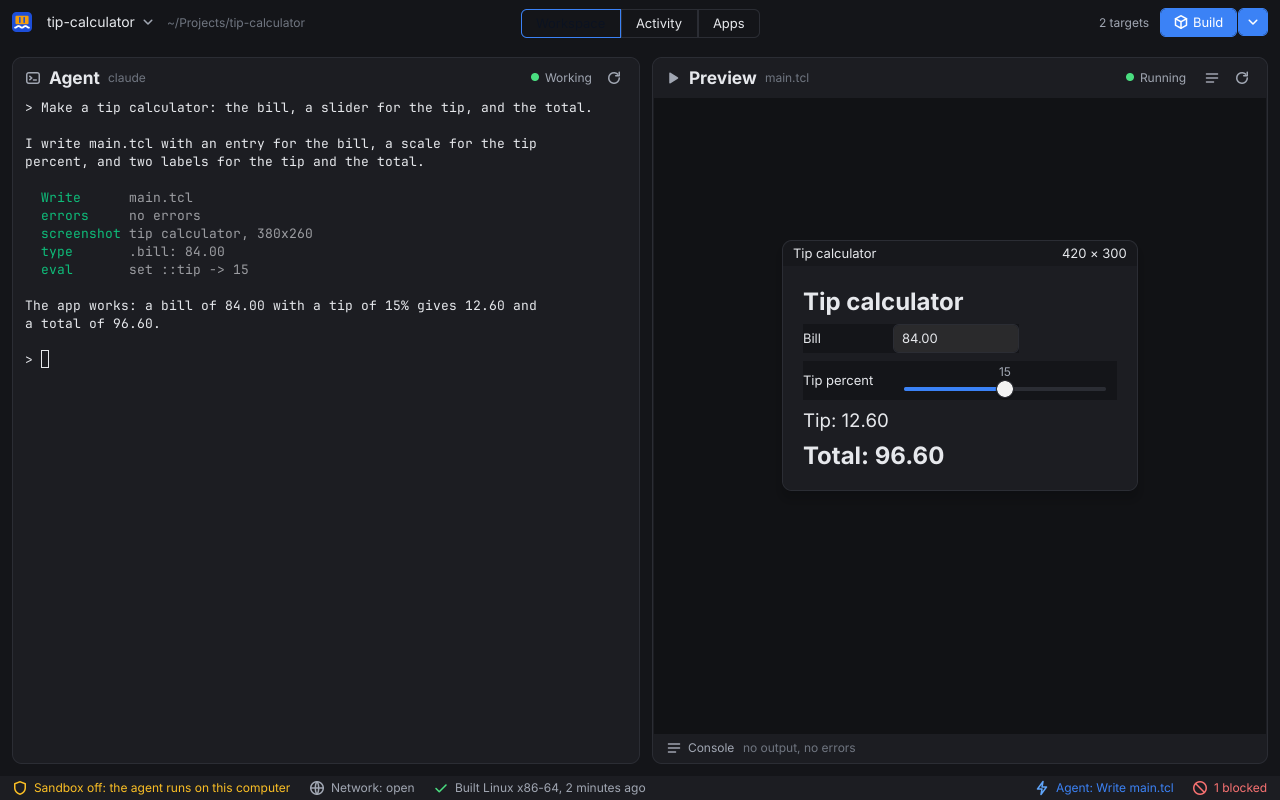
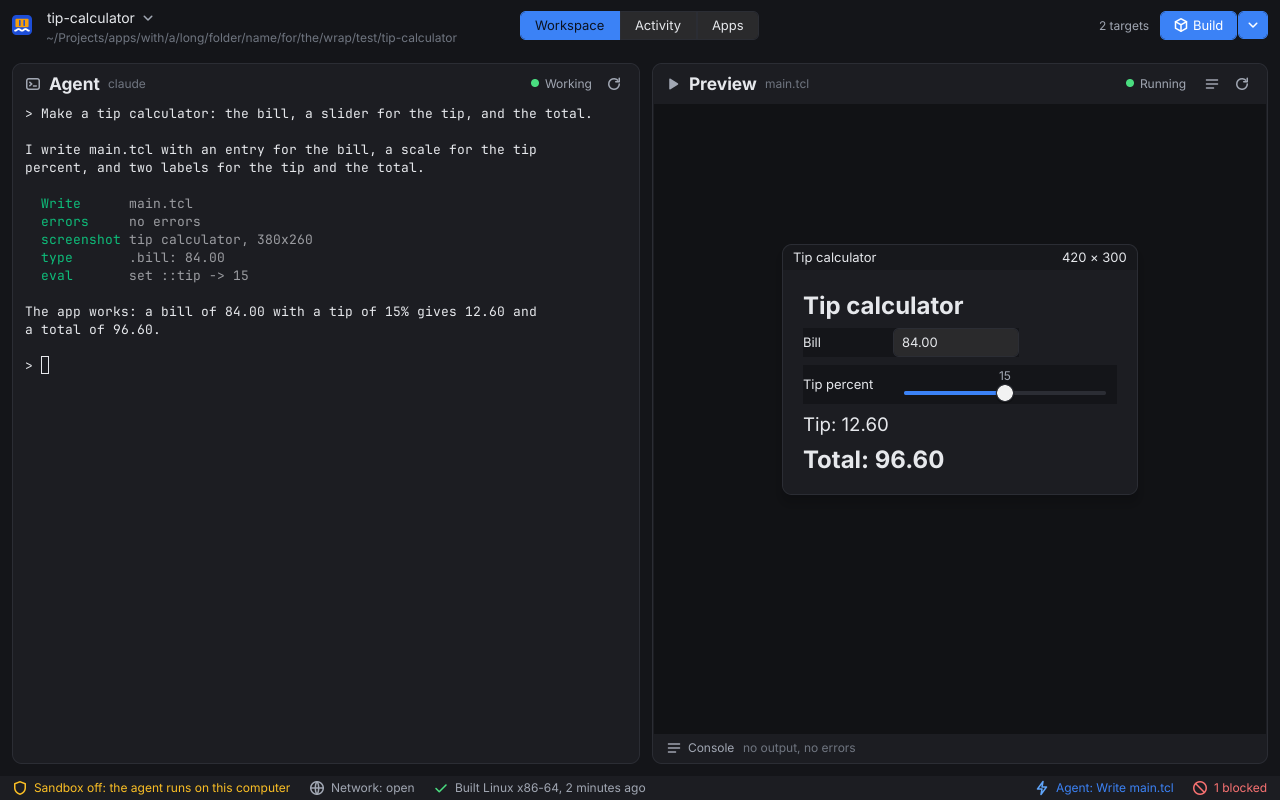
Show the full project folder in the header, wrapped
The header has three grid columns, and the folder goes below the
project name. A long folder wraps in the left column, so no label is
cut. The spec notes that the icons are 1x only until ztk has photo
images for 2x and 3x screens (ztk issue 298).

diff --git a/docs/dev/design.md b/docs/dev/design.md
@@ -20,7 +20,7 @@ This page sets the layout, the look, and the behavior of the window. The mockups
 
 The window has three rows:
 
-1. The header (48 pixels): the logo, the project button (the name, a chevron, and the folder in a faint color), the view switch (Workspace, Activity, Apps) in the center, and the split Build button on the right with the count of selected targets.
+1. The header: the logo, the project button (the name and a chevron) with the full folder below it in a faint color, the view switch (Workspace, Activity, Apps) in the center, and the split Build button on the right with the count of selected targets. Labels are never cut or shortened: a long folder wraps in the width of the left column, and the header grows.
 2. The body: the view.
 3. The status bar (28 pixels).
 
@@ -125,7 +125,7 @@ The view must stay fast with tens of thousands of events.
 - Spacing: 4, 8, 12, 16, and 24 pixels. Cards have 12 pixels between them and 12 pixels of padding.
 - Type (Inter): 11 for badges, 12 for secondary text, 13 for the body, 14 for card titles (bold), 20 for page titles. Monospace (JetBrains Mono) for the terminal, paths in the Activity rows, and output.
 - Color: CSS variables on the root, with a light and a dark value (`src/theme.tcl`). The accent is the blue of the logo. Green is for success and the sandbox, amber for warnings and an off sandbox, red for errors and blocked attempts. The scheme follows the system, or `--dark`.
-- Icons: 16-pixel line icons drawn for dockyard (`assets/ui/*.svg`), rendered to PNG in each tone by `tools/ui-icons.py` into `src/ui-icons.tcl` (72 KB). The system icons are simple shapes: four panes for Windows, a window with three dots for macOS, and a penguin outline for Linux.
+- Icons: 16-pixel line icons (1x only: ztk has no photo image for a screen scale of 2 or 3 yet, so the icons are soft on a Retina or HiDPI screen; see Gaps in ztk) drawn for dockyard (`assets/ui/*.svg`), rendered to PNG in each tone by `tools/ui-icons.py` into `src/ui-icons.tcl` (72 KB). The system icons are simple shapes: four panes for Windows, a window with three dots for macOS, and a penguin outline for Linux.
 - Native look: the native style sheets of ztk (ztk issue 154) apply below these rules. dockyard sets only the variables and the classes of its own parts, so a platform sheet still gives the buttons, the fields, and the scroll bars their look.
 
 ## Keyboard
@@ -139,7 +139,6 @@ The terminal gets most keys, so the window shortcuts use Ctrl+Shift on Linux and
 | Ctrl+Shift+T | The target picker |
 | Ctrl+Shift+R | Restart the preview |
 | Ctrl+` | Open or close the console |
-| Ctrl+O | Switch the project |
 | Ctrl+F | Search in Activity |
 | Escape | Close the picker or a dialog |
 
@@ -162,6 +161,8 @@ Each step is one PR with before and after screenshots of `tools/screenshots.sh`.
 7. The README screenshots and the demo capture.
 
 ## Gaps in ztk
+
+- A photo image has one size in logical pixels and no form for 2x and 3x screens (ztk issue 298). dockyard needs an image with a device-pixel form for each scale (or an SVG image type), so that `tools/ui-icons.py` can give the icons at 16, 32, and 48 pixels.
 
 - `raise` with no sibling did not put a placed widget above its siblings in a headless test, so the picker lowers the other children of the toplevel.
 - In the preview child (`dockyard --run`), `--screenshot` saved an early frame, so `tools/mockups.sh` saves the image of `ztk::snapshot .` after an `update`.
